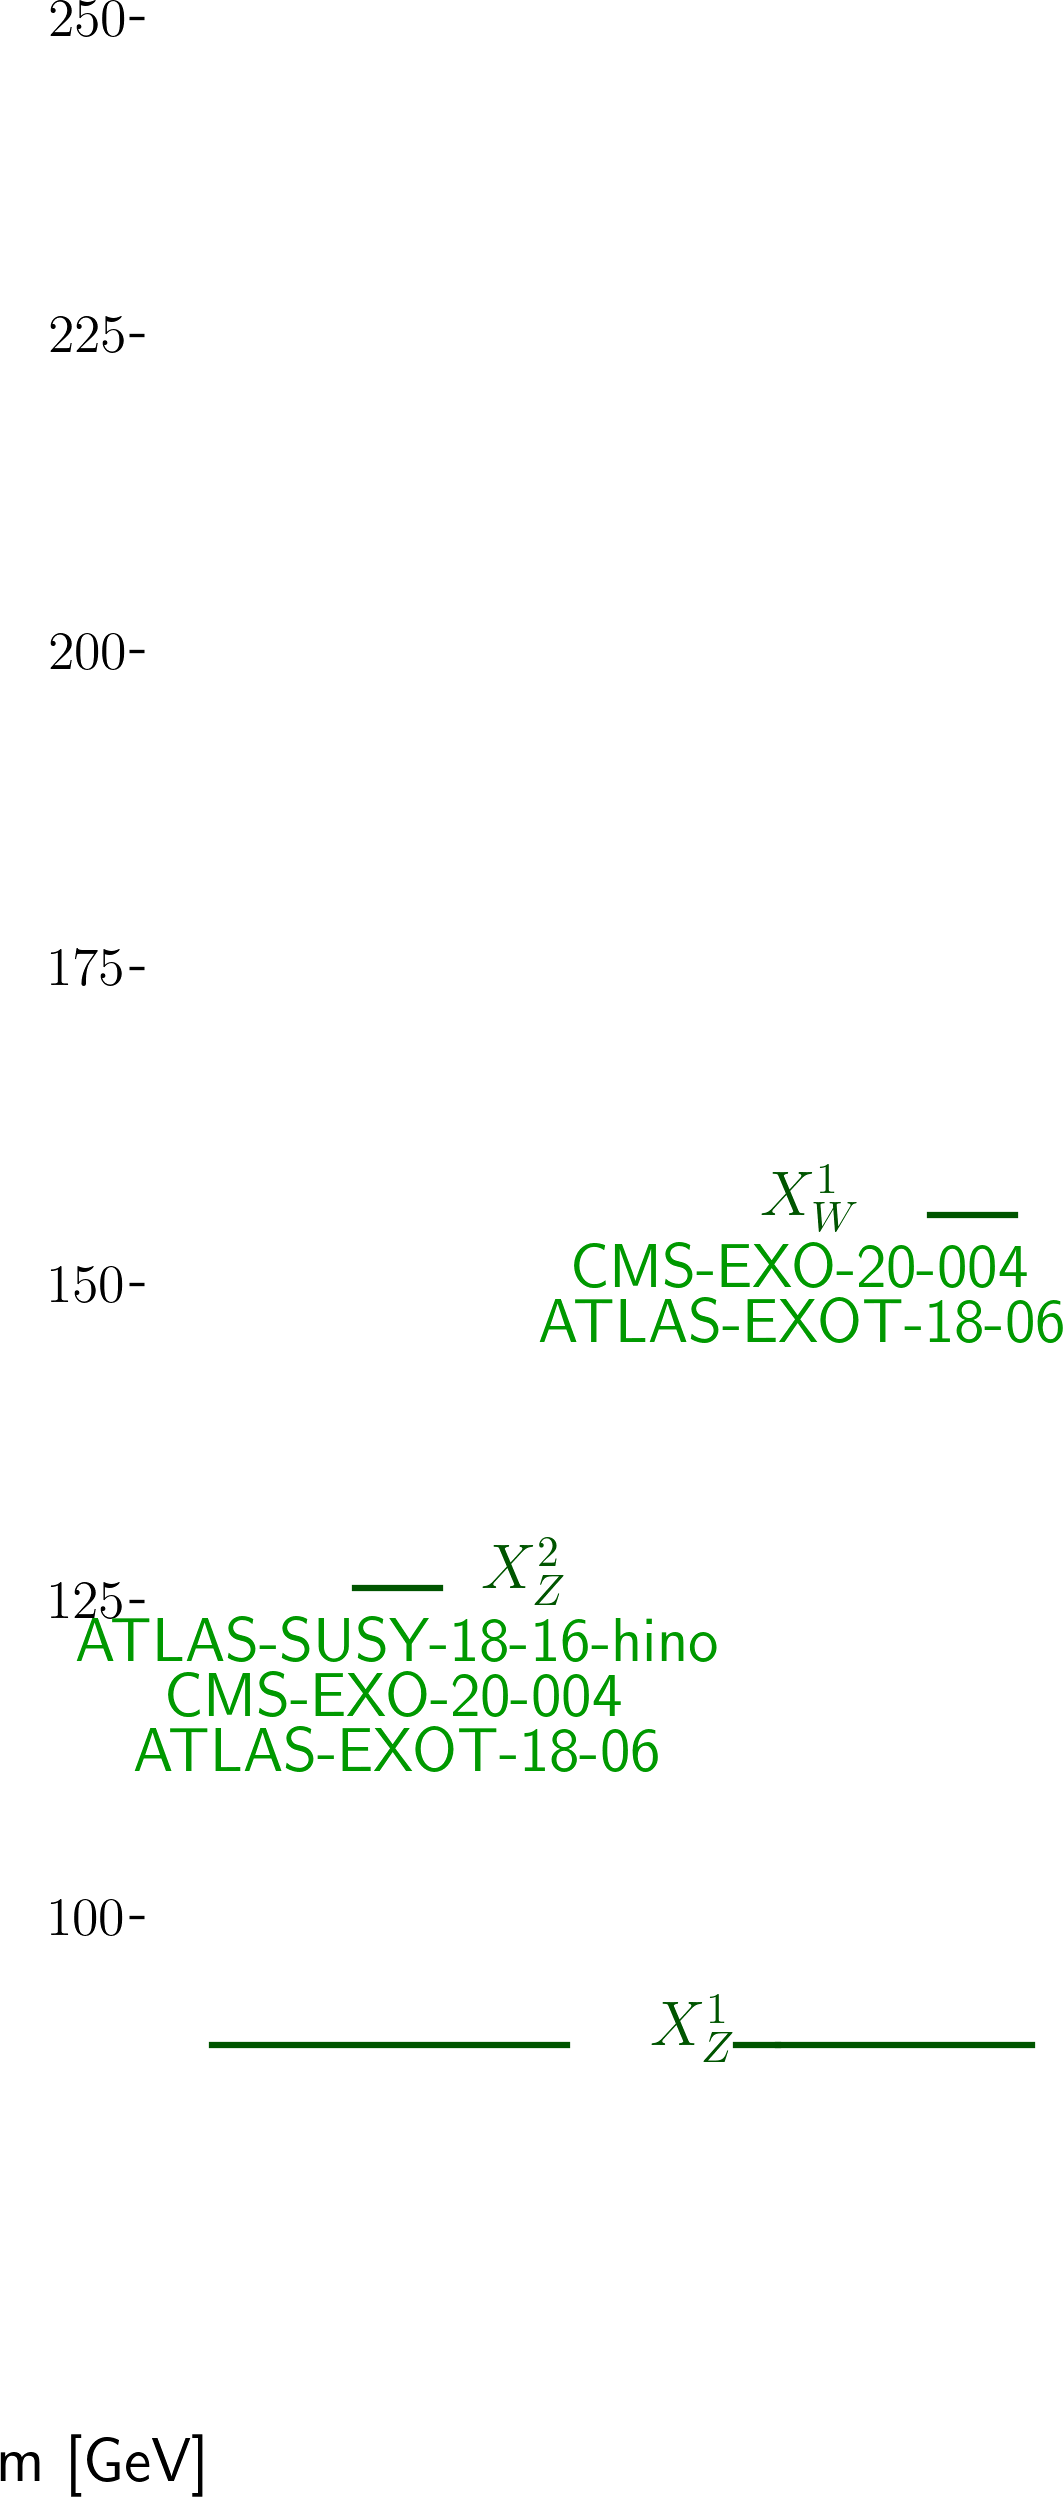
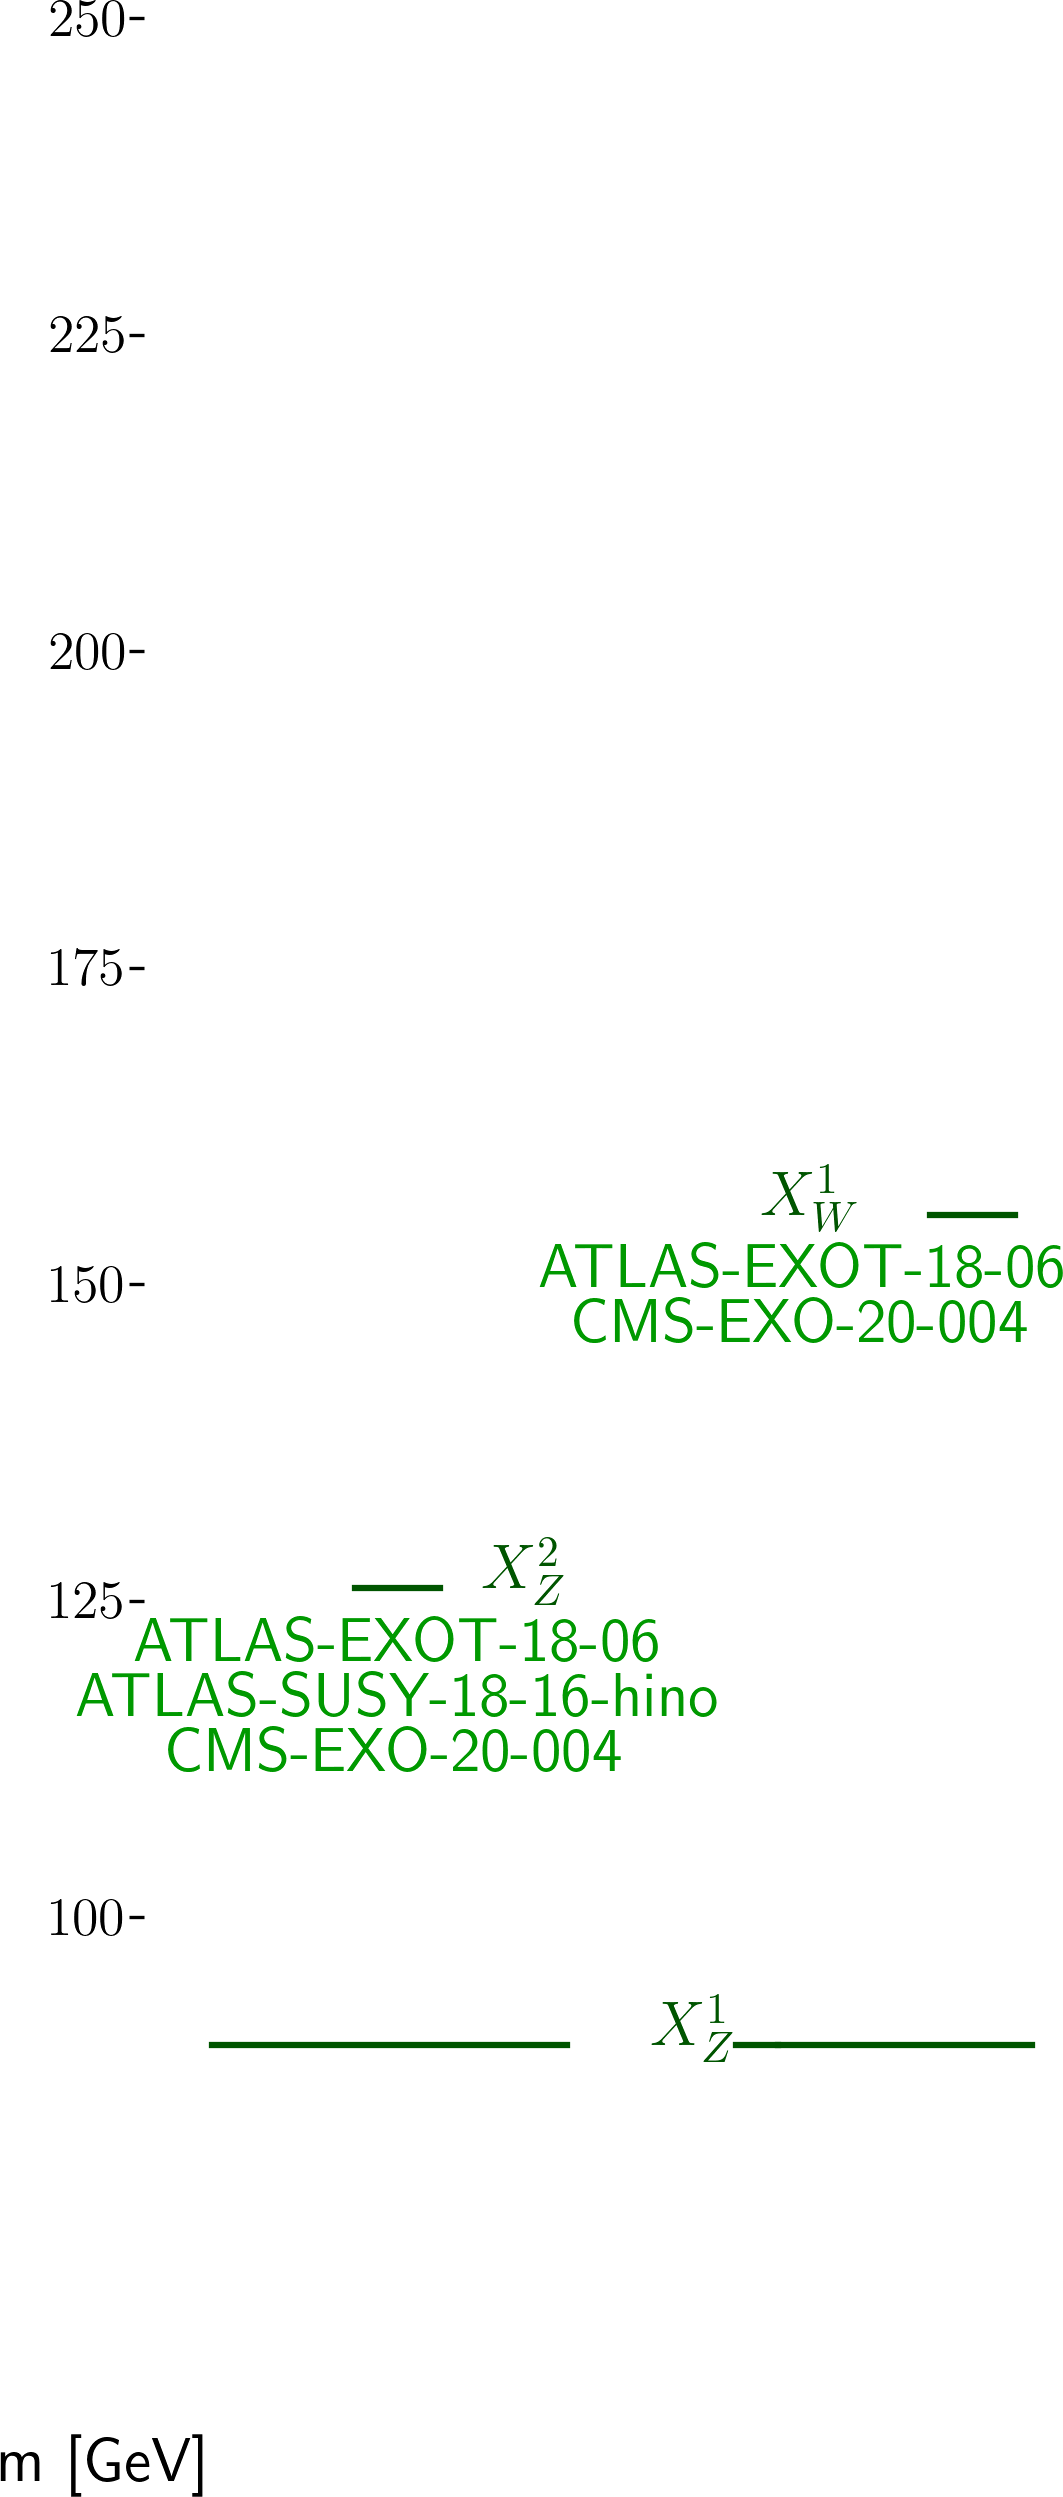
automated update by plotHiscore.py to ewk1_310:     K=22.487 TL=27.49 walkerid=0

Changed region(s): [[0.0621, 0.6247, 0.683, 0.7185], [0.4967, 0.4998, 1.0, 0.5623]]

diff --git a/protomodels/ewk1_310/index.html b/protomodels/ewk1_310/index.html
@@ -7,16 +7,16 @@
 <table width=80%>
 <tr><td>
 <br><b>5 predictions available. Highest r values are:</b><br><ul>
-<li><a href=https://atlas.web.cern.ch/Atlas/GROUPS/PHYSICS/PAPERS/EXOT-2018-06/>ATLAS-EXOT-2018-06</a>:EM8:TChiISR,TChiWISRll,TChiZISRll,TChiZISRqq r=1.31, r<sub>exp</sub>=1.42<br>
+<li><a href=https://atlas.web.cern.ch/Atlas/GROUPS/PHYSICS/PAPERS/EXOT-2018-06/>ATLAS-EXOT-2018-06</a>:EM8:TChiWISRll,TChiZISRqq,TChiISR,TChiZISRll r=1.31, r<sub>exp</sub>=1.42<br>
 <li><a href=http://cms-results.web.cern.ch/cms-results/public-results/publications/SUS-16-048/index.html>CMS-SUS-16-048</a>:Ewkino_highMET_M_10to20:TChiWZoff r=0.59, r<sub>exp</sub>=0.50<br>
 <li><a href=https://atlas.web.cern.ch/Atlas/GROUPS/PHYSICS/PAPERS/SUSY-2018-16/>ATLAS-SUSY-2018-16-hino</a>:SR_ewk_2l_high:TChiZoff r=0.38, r<sub>exp</sub>=0.36<br>
-<li><a href=http://cms-results.web.cern.ch/cms-results/public-results/publications/EXO-20-004/>CMS-EXO-20-004</a>:SR_2018_16:TChiISR,TChiWISRll,TChiZISRll,TChiZISRqq r=0.25, r<sub>exp</sub>=0.41<br>
+<li><a href=http://cms-results.web.cern.ch/cms-results/public-results/publications/EXO-20-004/>CMS-EXO-20-004</a>:SR_2018_16:TChiWISRll,TChiZISRqq,TChiISR,TChiZISRll r=0.25, r<sub>exp</sub>=0.41<br>
 </ul>
-<td><img width=600px src=./texdoc.png?1755338954>
-<br><span style='font-size: smaller; color: darkred;'>Last updated: Sat Aug 16 12:09:14 2025</span>
+<td><img width=600px src=./texdoc.png?1755339279>
+<br><span style='font-size: smaller; color: darkred;'>Last updated: Sat Aug 16 12:14:39 2025</span>
 </table><table style="width:80%">
-<td width=45%><img height=580px src=./ruler.png?1755338954><td width=55%><img height=220px src=./decays.png?1755338954>
-<font size=-3><iframe type="text/html" height="350px" width="100%" frameborder="0" src="./rawnumbers.html?1755338954"></iframe></font>
+<td width=45%><img height=580px src=./ruler.png?1755339279><td width=55%><img height=220px src=./decays.png?1755339279>
+<font size=-3><iframe type="text/html" height="350px" width="100%" frameborder="0" src="./rawnumbers.html?1755339279"></iframe></font>
 </table>
 </body>
 </html>
